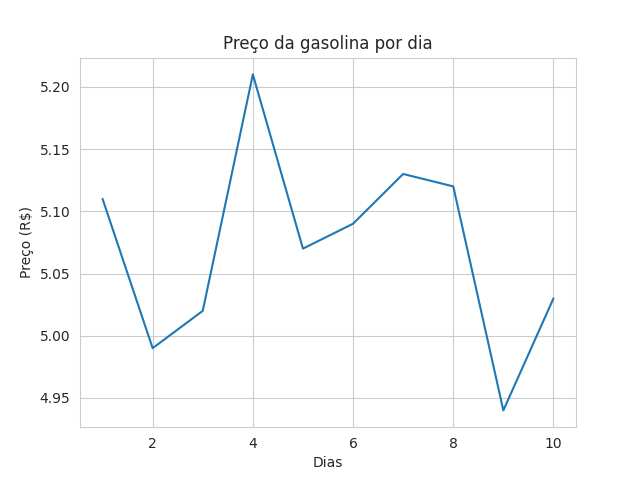
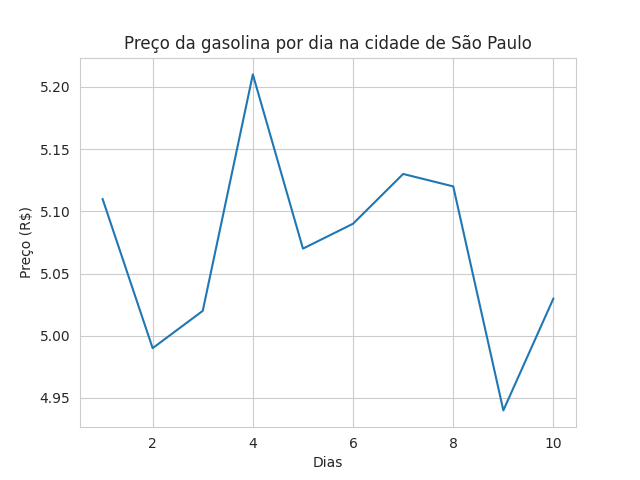
Arquivos gasolina.py e gasolina.png alterados em develop

Changed region(s): [[0.1875, 0.0625, 0.8438, 0.125]]

diff --git a/gasolina.py b/gasolina.py
@@ -7,7 +7,6 @@ gasolina_df = pd.read_csv('gasolina.csv')
 with sns.axes_style('whitegrid'):
 
   grafico = sns.lineplot(data=gasolina_df, x='dia', y='venda', palette ='pastel')
-  grafico.set(title='Preço da gasolina por dia', xlabel='Dias', ylabel='Preço (R$)');
+  grafico.set(title='Preço da gasolina por dia na cidade de São Paulo', xlabel='Dias', ylabel='Preço (R$)');
 
 grafico.get_figure().savefig('gasolina.png')
-
